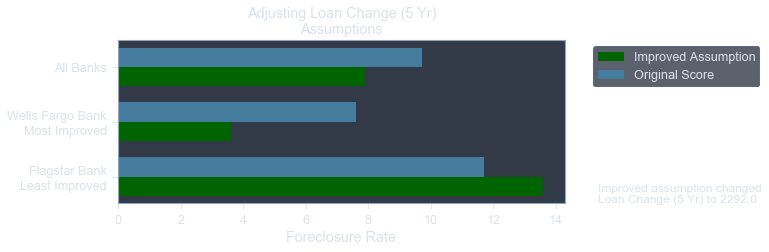
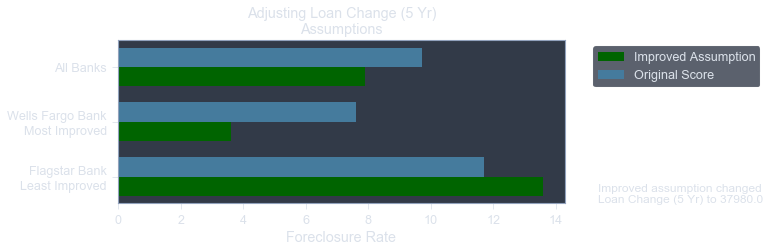
regular updates

diff --git a/Bad_Banking_Behavior/index.html b/Bad_Banking_Behavior/index.html
@@ -66,6 +66,7 @@
     <div id="tableofcontents" >
     <h3>Table of Contents</h3>
     <ul>
+        <li><strong><a href="#Objectives">Objectives</strong></a><br></li>
         <li><strong><a href="#Data">Data</strong></a><br></li>
         <ul>
             <li><a href="#Foreclosures">Foreclosures</a><br></li>
@@ -75,8 +76,8 @@
         <li><strong><a href="#Analysis">Analysis</a></strong><br></li>
         <ul>
             <li><a href="#Credit-Score">Credit Score</a><br></li>
-            <li><a href="#Debt-to-Income">Debt to Income</a><br></li>
-            <li><a href="#Loan-to-Value">Loan to Value</a><br></li>
+            <li><a href="#Debt-to-Income">Debt-to-Income</a><br></li>
+            <li><a href="#Loan-to-Value">Loan-to-Value</a><br></li>
             <li><a href="#Median-Household-Income">Median Household Income</a><br></li>
             <li><a href="#Loan-Change">Loan Change</a><br></li>
         </ul>
@@ -169,7 +170,7 @@ if (currentTheme) {
 			<img  id="fannie_mae" src="Photos/fannie_mae.jpg" alt="Fannie Mae" />
         <br>
 
-            <h1>Goals</h1>
+            <h1 id="Objectives">Objectives</h1>
             <p>
                 It has been over a decade since a mass sell-off of single-family mortgage loans and housing foreclosures popped the housing bubble and plunged the global economy into a financial crisis.  To create greater transparency, Fannie Mae began releasing single-family loan performance data in 2015.  This data has always been analyzed by the data’s level of analysis – individuals.  In other words, prior analysis often observed which individuals were at greatest risk of housing foreclosure.
                 <br><br>
@@ -228,11 +229,11 @@ if (currentTheme) {
         
             <h2 id="Banks">Banks</h2>
             <p>
-                This research investigates the differences between the 9 largest banks.  Bank of America is the largest as defined by the sheer quantity of loans it made, While PNC is the smallest of the nine (note, this is not factoring in the amount of those loans).
+                This research investigates the differences between the 9 largest banks.  <mpop>Bank of America</mpop>  is the largest as defined by the sheer quantity of loans it made, While PNC is the smallest of the nine (note, this is not factoring in the amount of those loans).
                 <br><br>
                 Loans destined to be foreclosed upon begin to notably increase after 2004.  As these loans increase in foreclosures, the difference between the banks increase.
                 <br><br>
-                Overall, Flagstar Bank had the highest foreclosures (11.7%) between 2006 and 2008 with Bank of America immediately following it (11.6%).  Wells Fargo and JPMorgan Chase had the lowest number of foreclosures (7.6%) with Wells Fargo containing the lowest before rounding to the first decimal place.  CitiMortgage immediately followed (7.7%).
+                Overall, <mpop>Flagstar Bank</mpop> had the highest foreclosures (11.7%) between 2006 and 2008 with <mpop>Bank of America</mpop> immediately following it (11.6%).  <mpop>Wells Fargo Bank</mpop> and <mpop>JPMorgan Chase</mpop> had the lowest number of foreclosures (7.6%) with <mpop>Wells Fargo Bank</mpop> containing the lowest before rounding to the first decimal place.  <mpop>CitiMortgage</mpop> immediately followed (7.7%).
             </p>
         <div class="row">
             <div class="column6">
@@ -303,7 +304,7 @@ if (currentTheme) {
                 <br><br>
                 Certainly, the voting architectures improved the results of the individual models.  It was low on bias, but high in variation; each prediction was prone to error (i.e., high variation), but the errors were about as likely to be a false positive (0.37 precision) as a false negative (0.39 recall).  
                 <br><br>
-                A similar pattern held across banks, with all but one bank containing predicted foreclosures only a percentage point off actual foreclosures.  SunTrust Mortgage performed the worst with two percentage points off actual foreclosures, predicting 8% foreclosures instead of 10.  It contained a 0.09 point gap between precision (0.41) and recall (0.32), causing more false negatives (i.e., bias towards non-foreclosures).  All other banks contained between 0 – 0.05 point gap between precision and recall.  F1 scores ranged from 0.31 (AmTrust Bank) to 0.43 (Bank of America).
+                A similar pattern held across banks, with all but one bank containing predicted foreclosures only a percentage point off actual foreclosures.  <mpop>SunTrust Mortage</mpop> performed the worst with two percentage points off actual foreclosures, predicting 8% foreclosures instead of 10.  It contained a 0.09 point gap between precision (0.41) and recall (0.32), causing more false negatives (i.e., bias towards non-foreclosures).  All other banks contained between 0 – 0.05 point gap between precision and recall.  F1 scores ranged from 0.31 (<mpop>AmTrust Bank</mpop>) to 0.43 (<mpop>Bank of America</mpop>).
                 <br><br>
                 Therefore, these predictions appear valuable in the aggregate (e.g., bank predictions), but not as individual predictions (e.g., mortgage recipient predictions).  In other words, this model seems reasonably equipped to predict foreclosure rates for bank lenders, but not equipped to predict whether a loanee will eventually have their home foreclosed upon.
             </p>
@@ -319,13 +320,13 @@ if (currentTheme) {
             <p>
                 Analysis was conducted on the full dataset, combining the training, validation, and testing data.  Below contains information on five features:  credit score, debt-to-income ratio, loan-to-value ratio, median household income at the 3-digit zip code-level, and the dollar amount change in mortgage loans made 1 year ago and 5 years ago.  The latter feature was created by taking total loan amount during a fiscal year quarter for each bank within a 3-digit zip code.
                 <br><br>
-                Using data mining techniques, each feature was examined at each bank.  Then, the feature was replaced by an improved and a weakened assumption based on the inter-quartile range (25-75 percentiles) of the feature across all banks and predicted probabilities were generated to see what the expected foreclosure rate would be if each banks’ behavior were different.  For example, a high credit score is associated with fewer foreclosures.  Among all banks, the average credit score was 719 (on a scale of 300 to 850).  I modified the credit score at each bank to the 75th percentile—an improved assumption of a 770 credit score—and to the 25th percentile—a weakened assumption of 675 credit score.  I left all other feature values unchanged.  I ran these values through the saved model detailed in the section above and analyzed the change in foreclosure rates.  One can interpret the findings as:  “If GMAC Mortgage only lent to those with a credit score of 770, with all other considerations staying the same, its foreclosure rate is predicted to fall from 9.7% to 1%.”
+                Using data mining techniques, each feature was examined at each bank.  Then, the feature was replaced by an improved and a weakened assumption based on the inter-quartile range (25-75 percentiles) of the feature across all banks and predicted probabilities were generated to see what the expected foreclosure rate would be if each banks’ behavior were different.  For example, a high credit score is associated with fewer foreclosures.  Among all banks, the average credit score was 719 (on a scale of 300 to 850).  I modified the credit score at each bank to the 75th percentile—an improved assumption of a 770 credit score—and to the 25th percentile—a weakened assumption of 675 credit score.  I left all other feature values unchanged.  I ran these values through the saved model detailed in the section above and analyzed the change in foreclosure rates.  One can interpret the findings as:  “If <mpop>GMAC Mortgage</mpop> only lent to those with a credit score of 770, with all other considerations staying the same, its foreclosure rate is predicted to fall from 9.7% to 1%.”
             </p>
 		<br><br>
             <h2 id="Credit-Score">Credit Score</h2>
             <h6>Data Mining</h6>
             <p>
-                Credit score is perhaps the feature most directly associated with the performance of a mortgage loan as it is a measure of one’s past ability to pay off debt.  It contained large difference between loans foreclosed (with an average credit score of 668) and loans not destined to be foreclosed upon (with an average credit score of 722).  However, there is little difference between banks, ranging from the best actor PNC Bank (728) to worst actor GMAC Mortgage (710).  Notably, Wells Fargo Bank, boasting the lowest foreclosure rate, only possesses the third highest credit score, and Flagstar Bank, holding the highest foreclosure rate, only possesses the third lowest credit score.  
+                Credit score is perhaps the feature most directly associated with the performance of a mortgage loan as it is a measure of one’s past ability to pay off debt.  It contained large difference between loans foreclosed (with an average credit score of 668) and loans not destined to be foreclosed upon (with an average credit score of 722).  However, there is little difference between banks, ranging from the best actor <mpop>PNC Bank</mpop> (728) to worst actor <mpop>GMAC Mortgage</mpop> (710).  Notably, <mpop>Wells Fargo Bank</mpop>, boasting the lowest foreclosure rate, only possesses the third highest credit score, and <mpop>Flagstar Bank</mpop>, holding the highest foreclosure rate, only possesses the third lowest credit score.  
                 <br><br>
                 This seems to indicate that a change in targeting individuals with certain credit scores should highly influence foreclosure rates, but that banks appeared unwilling to change their credit score standards if other banks did not follow suit.
             </p>
@@ -340,7 +341,7 @@ if (currentTheme) {
         </div>
             <h6>Model Predictions</h6>
             <p>
-                Overall, foreclosure rates were predicted to improve from 9.7% to 1.6% if all mortgage holders had a credit score of 770 and weaken to 14.1% if all mortgage holder had a credit score of 675.  Bank of America had the largest change, improving from 11.6% to 1.9%.  Meanwhile, the bank with the lowest credit score, PNC Bank, is predicted to have the least improvement from 8.8% to 3.1%.  However, Bank of America is expected to have the largest increase in foreclosures, if credit scores were weakened to 675, from 11.6% to 17.3%, compared to GMAC Mortgage’s 9.7% to 12.2%.              </p>
+                Overall, foreclosure rates were predicted to improve from 9.7% to 1.6% if all mortgage holders had a credit score of 770 and weaken to 14.1% if all mortgage holder had a credit score of 675.  <mpop>Bank of America</mpop> had the largest change, improving from 11.6% to 1.9%.  Meanwhile, the bank with the lowest credit score, <mpop>PNC Bank</mpop>, is predicted to have the least improvement from 8.8% to 3.1%.  However, <mpop>Bank of America</mpop> is expected to have the largest increase in foreclosures, if credit scores were weakened to 675, from 11.6%–17.3%, compared to <mpop>GMAC Mortgage</mpop>’s 9.7%–12.2%.              </p>
         <div class="row">
             <div class="column33">
                 <img  id="Predicted_Credit_Score_Table" src="Photos/Predicted_Credit_Score_Table.png" alt="Predicted_Credit_Score_Table" style="vertical-align: middle; width:100%" />
@@ -352,14 +353,14 @@ if (currentTheme) {
         </div>
 		    <h6>Main Point</h6> 
             <p>
-                Credit score displayed a substantial relationship with foreclosures, but average credit scores differ little between banks.  Bank of America had the most impact by changes in credit score.  Most notably, the highest predicted foreclosure rate among all features analyzed in this section was when Bank of America’s credit score assumptions weakened.  
+                Credit score displayed a substantial relationship with foreclosures, but average credit scores differ little between banks.  <mpop>Bank of America</mpop> had the most impact by changes in credit score.  Most notably, the highest predicted foreclosure rate among all features analyzed in this section was when <mpop>Bank of America</mpop>’s credit score assumptions weakened.  
             </p>
 		<br><br>
 
-            <h2 id="Debt-to-Income">Debt-to-Income Ratio</h2>
+            <h2 id="Debt-to-Income">Debt-to-Income (DTI) Ratio</h2>
             <h6>Data Mining</h6>
             <p>
-                The average DTI ratio for loans destined for foreclosure is 41.4% and 37.8% for those not destined for foreclosure.  Similar to credit score, banks did not range greatly with Flagstar Bank the highest (40.9%) and CitiMortgage the lowest (35.3%).  The best actor, CitiMortgage, had roughly as similar proportions of loan recipients with DTI ratios at 60% as it did at 20%.  A general rule of thumb in personal finance is to keep a DTI ratio of 35% or less, implying that loan recipients between 2006-2008 were exceeding conventional standards for DTI.
+                The average DTI ratio for loans destined for foreclosure is 41.4% and 37.8% for those not destined for foreclosure.  Similar to credit score, banks did not range greatly with <mpop>Flagstar Bank</mpop> the highest (40.9%) and <mpop>CitiMortgage</mpop> the lowest (35.3%).  The best actor, <mpop>CitiMortgage</mpop>, had roughly as similar proportions of loan recipients with DTI ratios at 60% as it did at 20%.  A general rule of thumb in personal finance is to keep a DTI ratio of 35% or less, implying that loan recipients between 2006-2008 were exceeding conventional standards for DTI.
             </p>
         <div class="row">
             <div class="column5">
@@ -372,7 +373,7 @@ if (currentTheme) {
         </div>
             <h6>Model Predictions</h6>
             <p>
-                Overall, foreclosure rates were predicted to improve from 9.7% to 6.5% if all mortgage holders had a DTI ratio of and weaken to 29% and weaken to 11.8% if all mortgage holders had a DTI ratio of 47%.  Most banks were predicted to reduce foreclosures to 5%-5.5%, with Wells Fargo improving to 3.5% and Bank of America improving to only 8.9% as outliers.  Under improved assumptions, Flagstar Banks was predicted to have the largest decrease in foreclosures from 11.7% to 5.3%.  Under weakened assumptions, PNC Bank was predicted to have the largest increase in foreclosures from 8.8% to 12.5%.  Again, Bank of America was predicted to have the highest foreclosure rate of 14.8% under a DTI ratio of 47%.  However, one bank, SunTrust Mortgage, decreased its foreclosure rate with weakened assumptions, showing that not all potential recipients with DTI’s were risky.
+                Overall, foreclosure rates were predicted to improve from 9.7% to 6.5% if all mortgage holders had a DTI ratio of and weaken to 29% and weaken to 11.8% if all mortgage holders had a DTI ratio of 47%.  Most banks were predicted to reduce foreclosures to 5%–5.5%, with <mpop>Wells Fargo Bank</mpop> improving to 3.5% and <mpop>Bank of America</mpop> improving to only 8.9% as outliers.  Under improved assumptions, <mpop>Flagstar Banks</mpop> was predicted to have the largest decrease in foreclosures from 11.7% to 5.3%.  Under weakened assumptions, <mpop>PNC Bank</mpop> was predicted to have the largest increase in foreclosures from 8.8% to 12.5%.  Again, <mpop>Bank of America</mpop> was predicted to have the highest foreclosure rate of 14.8% under a DTI ratio of 47%.  However, one bank, <mpop>SunTrust Mortage</mpop>, decreased its foreclosure rate with weakened assumptions, showing that not all potential recipients with DTI’s were risky.
             </p>
         <div class="row">
             <div class="column33">
@@ -389,10 +390,10 @@ if (currentTheme) {
             </p>
 		<br><br>
         
-            <h2 id="Loan-to-Value">Loan-to-Value Ratio</h2>
+            <h2 id="Loan-to-Value">Loan-to-Value (LTV) Ratio</h2>
             <h6>Data Mining</h6>
             <p>
-                LTV data displays 3 spikes around 95%, 90%, and 80%.  There is a large tail in which presumably wealthy buyers were putting down 40% (an LTV of 60%) or more for their down payment.  Loans destined to foreclose averaged a down payment of 20.5% (an LTV of 79.5%), and loans not eventually foreclosed upon averaged a down payment of 28.7% (an LTV of 71.3%).  Loans with an LTV’s of 90% and 95% displayed particularly high levels of foreclosure.  Bank LTV’s ranged from only 69.8% (GMAC Mortgage) to 74.6% (AmTrust Bank).  AmTrust Bank contained few outliers: people who made large down payments. Interestingly, Wells Fargo, the bank with the lowest foreclosure rate, had the second highest LTV.
+                LTV data displays 3 spikes around 95, 90, and 80.  There is a large tail in which presumably wealthy buyers were putting down 40% (an LTV of 60) or more for their down payment.  Loans destined to foreclose averaged a down payment of 20.5% (an LTV of 79.5), and loans not eventually foreclosed upon averaged a down payment of 28.7% (an LTV of 71.3).  Loans with an LTV’s of 90 and 95 displayed particularly high levels of foreclosure.  Bank LTV’s ranged from only 69.8 (<mpop>GMAC Mortgage</mpop>) to 74.6 (<mpop>AmTrust Bank</mpop>).  <mpop>AmTrust Bank</mpop> contained few outliers: people who made large down payments. Interestingly, <mpop>Wells Fargo Bank</mpop>, the bank with the lowest foreclosure rate, had the second highest LTV.
             </p>
         <div class="row">
             <div class="column5">
@@ -405,7 +406,7 @@ if (currentTheme) {
         </div>
             <h6>Model Predictions</h6>
             <p>
-                Overall, foreclosure rates were predicted to improve from 9.7% to 5.3% if all mortgage holders had a LTV of 63 and weaken to 13.2% if all mortgage holder had a LTV of 84.  Under improved assumptions, SunTrust Mortgage changed the most from 10.3% to 3.4%.  Under weakened assumptions, Bank of America changed the most from 11.6% to 16.4% - again, the worst foreclosure rate.  SunTrust Bank was the only one to improve (slightly) as LTV increased.
+                Overall, foreclosure rates were predicted to improve from 9.7% to 5.3% if all mortgage holders had a LTV of 63 and weaken to 13.2% if all mortgage holder had a LTV of 84.  Under improved assumptions, <mpop>SunTrust Mortage</mpop> changed the most from 10.3% to 3.4%.  Under weakened assumptions, <mpop>Bank of America</mpop> changed the most from 11.6% to 16.4% – again, the worst foreclosure rate.  <mpop>SunTrust Bank</mpop> was the only one to improve (slightly) as LTV increased.
             </p>
         <div class="row">
             <div class="column33">
@@ -418,14 +419,14 @@ if (currentTheme) {
         </div>
 		    <h6>Main Point</h6> 
             <p>
-                LTV was the second most impactful feature analyzed in this document after credit score.  Bank of America increased in foreclosures more than any other bank to an extremely high rate under weakened assumptions.
+                LTV was the second most impactful feature analyzed in this document after credit score.  <mpop>Bank of America</mpop> increased in foreclosures more than any other bank to an extremely high rate under weakened assumptions.
             </p>
 		<br><br>
 
             <h2 id="Median-Household-Income">Median Household Income</h2>
             <h6>Data Mining</h6>
             <p>
-                Median household income at the 3-digit zip code does not necessarily reflect the income of the loan recipient but does indicate whether banks are focusing their loan efforts in poorer or wealthier areas.  The difference between the average income of loans destined for foreclosure ($48,204) was very close to those that did not foreclose ($48,797).  Between banks, income only ranged from $47,264 (SunTrust Mortgage) to $49,491 (CitiMortgage).
+                Median household income at the 3-digit zip code does not necessarily reflect the income of the loan recipient but does indicate whether banks are focusing their loan efforts in poorer or wealthier areas.  The difference between the average income of loans destined for foreclosure ($48,204) was very close to those that did not foreclose ($48,797).  Between banks, income only ranged from $47,264 (<mpop>SunTrust Mortage</mpop>) to $49,491 (<mpop>CitiMortgage</mpop>).
             </p>
         <div class="row">
             <div class="column5">
@@ -459,11 +460,11 @@ if (currentTheme) {
             </p>
         <div class="row">
             <div class="column33">
-                <img  id="Predicted_MHI_Table_Weakest" src="Photos/Predicted_MHI_Table_Weakest.png" alt="Predicted_MHI_Table_Weakest" style="vertical-align: middle; width:100%" />
+                <img  id="Predicted_MHI_Table_Strongest" src="Photos/Predicted_MHI_Table_Strongest.png" alt="Predicted_MHI_Table_Strongest" style="vertical-align: middle; width:100%" />
             </div>
             <div class="column66">
-                <img  id="Predicted_MHI_Best_Bar_Weakest" src="Photos/Predicted_MHI_Best_Bar_Weakest.png" alt="Predicted_MHI_Best_Bar_Weakest" style="width:100%" />        
-                <img  id="Predicted_MHI_Worst_Bar_Weakest" src="Photos/Predicted_MHI_Worst_Bar_Weakest.png" alt="Predicted_MHI_Worst_Bar_Weakest" style="width:100%" />        
+                <img  id="Predicted_MHI_Best_Bar_Strongest" src="Photos/Predicted_MHI_Best_Bar_Strongest.png" alt="Predicted_MHI_Best_Bar_Strongest" style="width:100%" />        
+                <img  id="Predicted_MHI_Worst_Bar_Strongest" src="Photos/Predicted_MHI_Worst_Bar_Strongest.png" alt="Predicted_MHI_Worst_Bar_Strongest" style="width:100%" />        
             </div>
         </div>
 		<br><br>
@@ -493,7 +494,7 @@ if (currentTheme) {
         </div>
             <h6>Model Predictions</h6>
             <p>
-                Under improved assumptions, 1 year loan changes increased $2,292 and 5 year loan changes increased $37,980, while overall foreclosure rates were predicted to improve from 9.7% to 7.9%.  Under weakened assumptions, 1 year loan changes increased $27,661 and 5 year loan changes increased $86,358, while overall foreclosure rates were predicted to decline from 9.7% to 12.9%.  Wells Fargo decreased in foreclosures the most from 7.6% to 3.6%, while Bank of America increased in foreclosures the most from 11.6% to 17%.
+                Under improved assumptions, 1 year loan changes increased $2,292 and 5 year loan changes increased $37,980, while overall foreclosure rates were predicted to improve from 9.7% to 7.9%.  Under weakened assumptions, 1 year loan changes increased $27,661 and 5 year loan changes increased $86,358, while overall foreclosure rates were predicted to decline from 9.7% to 12.9%.  <mpop>Wells Fargo Bank</mpop> decreased in foreclosures the most from 7.6% to 3.6%, while <mpop>Bank of America</mpop> increased in foreclosures the most from 11.6% to 17%.
             </p>
         <div class="row">
             <div class="column33">
@@ -508,14 +509,20 @@ if (currentTheme) {
         </div>
 		    <h6>Main Point</h6> 
             <p>
-                Changes in loans vary across banks more than any other feature examined in this document.  Likewise, predicted changes in foreclosure varied greatly between banks.  Wells Fargo Bank substantially decreased foreclosures under improved assumptions but also slightly decreased foreclosures under weakened assumptions.  Overall, changes in loans over time impacted foreclosures more than median household income at 3-digit zip codes but less than the other features examined in this document.
+                Changes in loans vary across banks more than any other feature examined in this document.  Likewise, predicted changes in foreclosure varied greatly between banks.  <mpop>Wells Fargo Bank</mpop> substantially decreased foreclosures under improved assumptions but also slightly decreased foreclosures under weakened assumptions.  Overall, changes in loans over time impacted foreclosures more than median household income at 3-digit zip codes but less than the other features examined in this document.
             </p>
 		<br><br>
 
 
             <h1 id="Conclusion">Conclusion</h1>
             <p>
-                Text...
+                After 2005, mortgage loans issued augmented in likelihood to foreclose as well as differences in bank foreclosure rates.  <mpop>Wells Fargo Bank</mpop> and <mpop>JPMorgan Chase</mpop> held the lowest foreclosure rates between 2006-2008, while <mpop>Flagstar Bank</mpop> and <mpop>Bank of America</mpop> held the highest foreclosure rates.  
+                <br><br>
+                Of the five features focused on in this analysis, credit score had the <i>highest</i> impact on foreclosures but <i>littlest</i> discrepancy between banks.  With improved assumptions, a high credit score of 770 is predicted to reduce foreclosures to between 1%–3.1%.  With weakened assumptions, a low credit score of 675 is predicted to increase foreclosures to 10.9%–17.3%.
+                <br><br>
+                Of the five features focused on in this analysis, loan change had the <i>lowest</i> impact on foreclosures but <i>highest</i> discrepancy between banks.  With improved assumptions, a low 1 year ($2,292) and 5 year ($37,980) increase in mortgage loans made is predicted to reduce foreclosures to between 3.6%–13.6%.  With weakened assumptions, a high 1 year ($27,661) and 5 year ($86,358) increase in mortgage loans is predicted to increase foreclosures to 6.4%–17%.  
+                <br><br>
+                <mpop>Bank of America</mpop> always displayed the highest foreclosure rate when assumptions were weakened, even though it possesses a slightly lower rate to <mpop>Flagstar Bank</mpop> without any assumptions made.  Similarly, <mpop>Wells Fargo</mpop> usually (but not always) had the lowest foreclosure rate when assumptions were improved, even though it possesses the same rate as <mpop>JPMorgan Chase</mpop> without any assumptions made.  
             </p>
 		<br><br>
             

diff --git a/Bad_Banking_Behavior/extras.css b/Bad_Banking_Behavior/extras.css
@@ -59,13 +59,10 @@ li::marker {
   object-fit: cover;
 }
 
-/*
-.row {
-    background-color: var(--row-bkgd);
-    padding: 0.1em 2em 1em;
-    box-shadow: 1px 2px 4px 1px rgba(0, 0, 0, 0.5);
+mpop {
+    color: var(--mpop-color)
 }
-*/
+
 /* Clear floats after the columns */
 .row:after {
   content: "";
